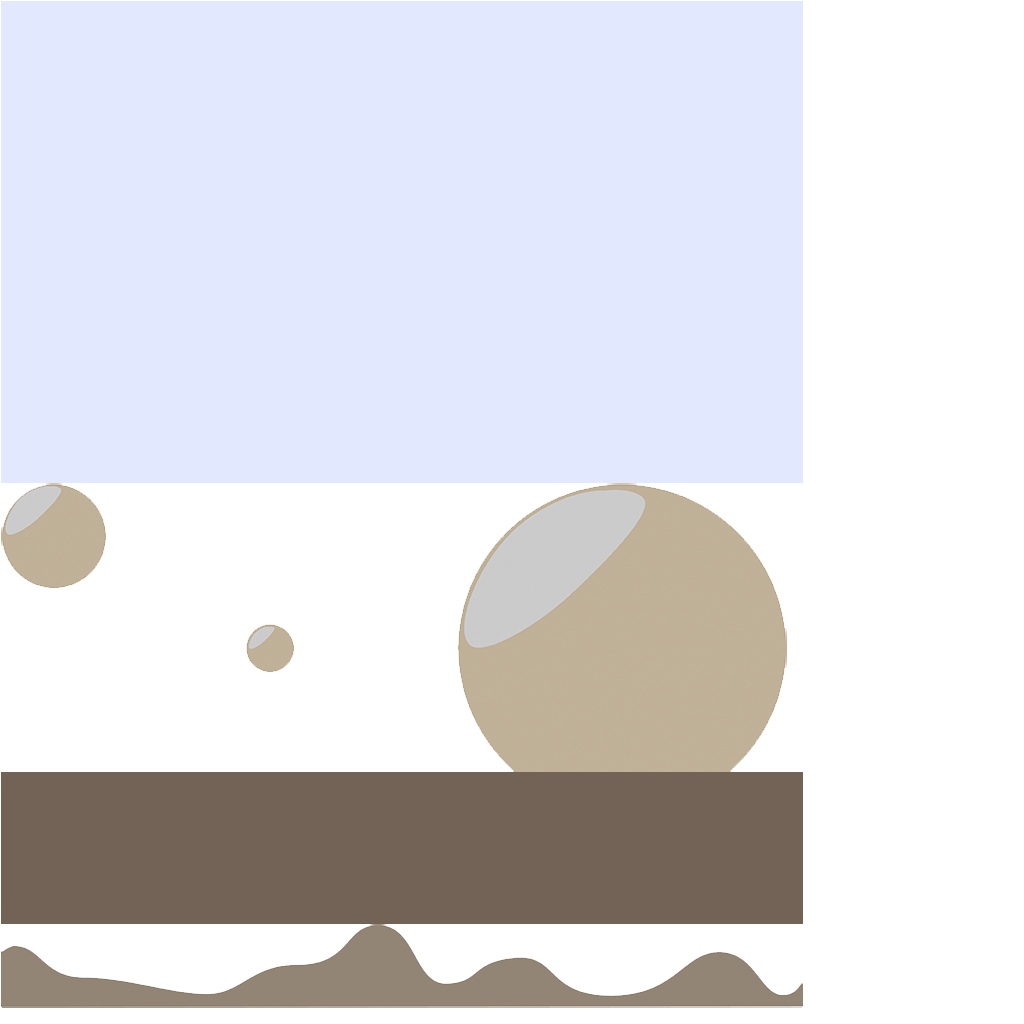
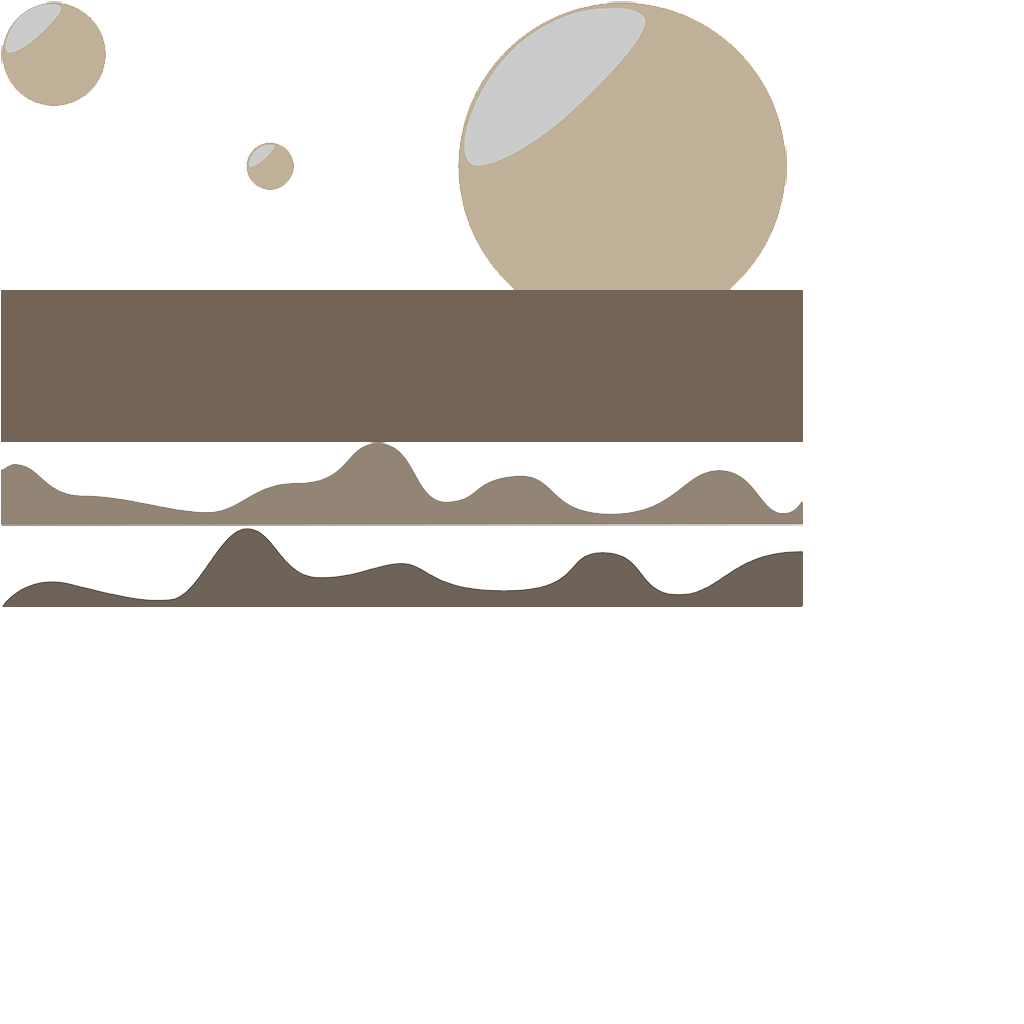
Replaced SpaceBackdrop texture with OpenGL call and updated texture pack

diff --git a/Tamagotchi/src/com/redditandroiddevelopers/tamagotchi/screens/MainGameScreen.java b/Tamagotchi/src/com/redditandroiddevelopers/tamagotchi/screens/MainGameScreen.java
@@ -93,7 +93,6 @@ public class MainGameScreen extends CommonScreen implements ClickListener, DragL
         final TextureAtlas textureAtlas = game.assets.getAsset(TextureAtlasAsset.MAIN_GAME);
 
         // get texture regions from loaded texture atlas
-        final TextureRegion spaceBackdropTextureRegion = textureAtlas.findRegion("SpaceBackdrop");
         final TextureRegion planetsBackgroundTextureRegion = textureAtlas
                 .findRegion("PlanetsBackground");
         final TextureRegion hillsMidgroundTextureRegion = textureAtlas.findRegion("HillsMidground");
@@ -106,7 +105,6 @@ public class MainGameScreen extends CommonScreen implements ClickListener, DragL
         /* prepare layout */
 
         // add background
-        Image bgSpaceBackdrop = new Image(spaceBackdropTextureRegion);
         Image bgPlanetsBackground = new Image(planetsBackgroundTextureRegion);
         Image bgHillsMidground = new Image(hillsMidgroundTextureRegion);
         Image bgHillsForeground = new Image(hillsForegroundTextureRegion);
@@ -176,7 +174,6 @@ public class MainGameScreen extends CommonScreen implements ClickListener, DragL
         uiGroup.addActor(topButtonsGroup);
 
         // sub groups to the 'background' group
-        bgDistantGroup.addActor(bgSpaceBackdrop);
         bgDistantGroup.addActor(bgPlanetsBackground);
         bgDistantGroup.addActor(bgHillsMidground);
         bgDistantGroup.addActor(bgHillsForeground);
@@ -250,6 +247,11 @@ public class MainGameScreen extends CommonScreen implements ClickListener, DragL
              */
             stage.findActor(GRP_STATUS_PANEL).y += y;
         }
+    }
+
+    @Override
+    protected void drawBackground() {
+        Gdx.gl10.glClearColor((226f / 255), (232f / 255), (254f / 255), 1f);
     }
 
     @Override

diff --git a/Tamagotchi/src/com/redditandroiddevelopers/tamagotchi/screens/CommonScreen.java b/Tamagotchi/src/com/redditandroiddevelopers/tamagotchi/screens/CommonScreen.java
@@ -103,8 +103,7 @@ public abstract class CommonScreen implements Screen, AssetErrorListener {
     @Override
     public final void render(float delta) {
         Gdx.gl.glClear(GL10.GL_COLOR_BUFFER_BIT);
-        final Color bgColor = game.config.backgroundColor;
-        Gdx.gl.glClearColor(bgColor.r, bgColor.g, bgColor.b, 1);
+        drawBackground();
         update(delta);
         draw();
     }
@@ -141,6 +140,11 @@ public abstract class CommonScreen implements Screen, AssetErrorListener {
      * @return a {@link Stage} object
      */
     protected abstract Stage createStage(SpriteBatch batch);
+
+    protected void drawBackground() {
+        final Color bgColor = game.config.backgroundColor;
+        Gdx.gl.glClearColor(bgColor.r, bgColor.g, bgColor.b, 1);
+    }
 
     @Override
     public void error(String fileName, @SuppressWarnings("rawtypes")

diff --git a/Tamagotchi/src/com/redditandroiddevelopers/tamagotchi/screens/MainMenuScreen.java b/Tamagotchi/src/com/redditandroiddevelopers/tamagotchi/screens/MainMenuScreen.java
@@ -100,5 +100,4 @@ public class MainMenuScreen extends CommonScreen implements ClickListener {
     public void unloadResources() {
         game.assets.unloadAsset(TextureAtlasAsset.MAIN_MENU);
     }
-
 }
